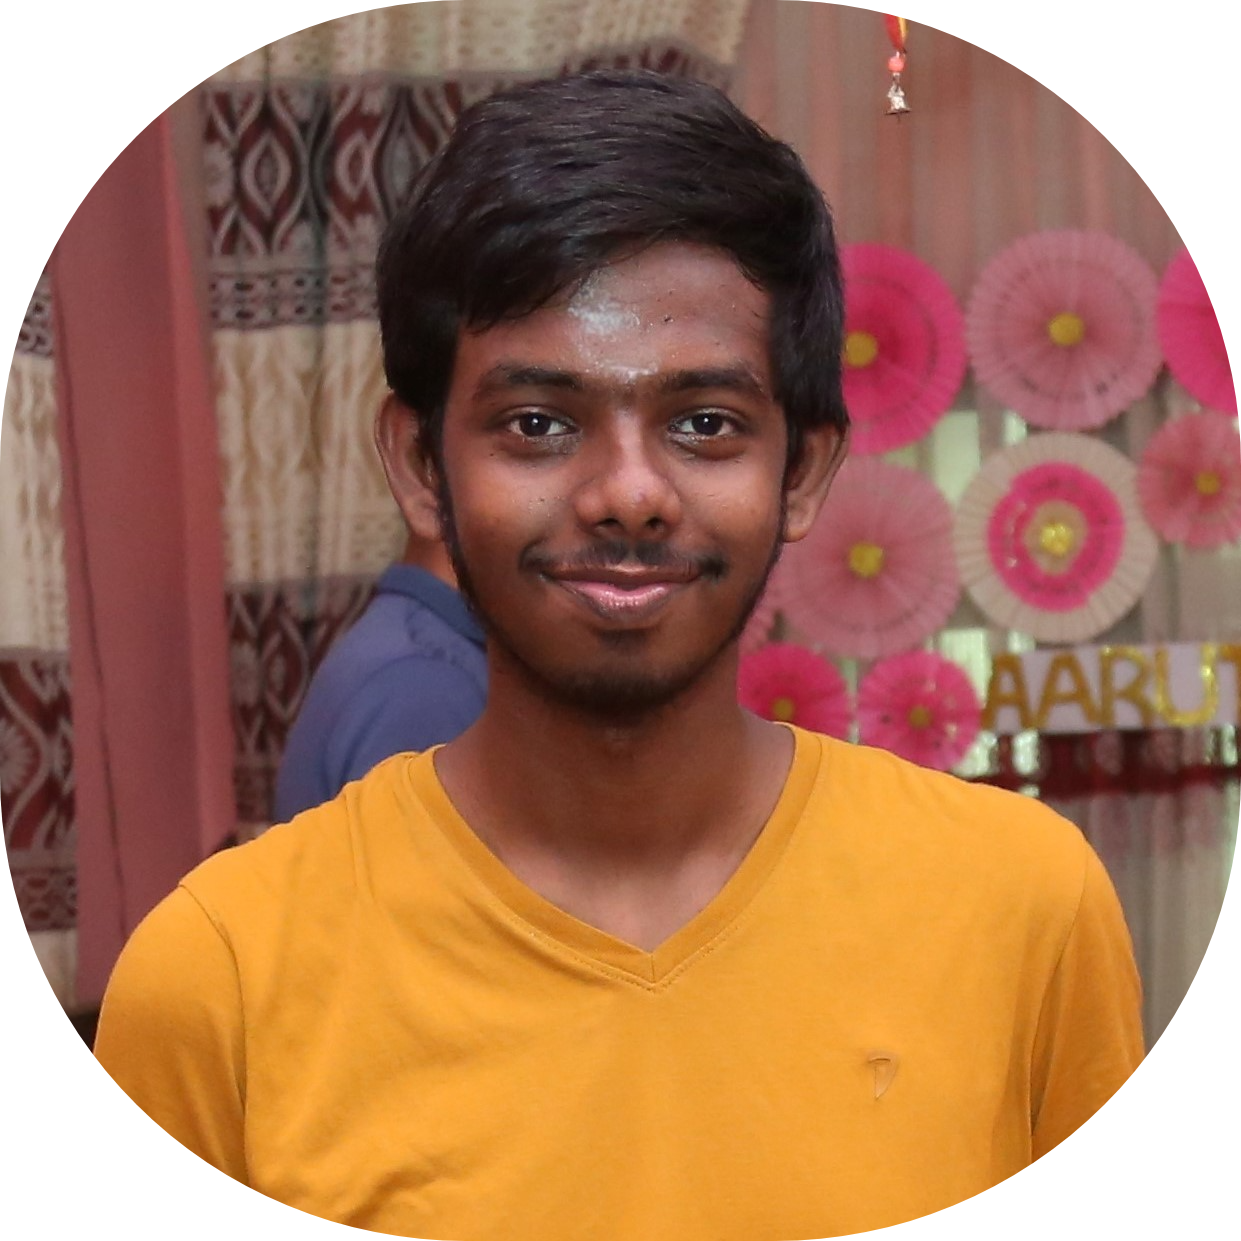
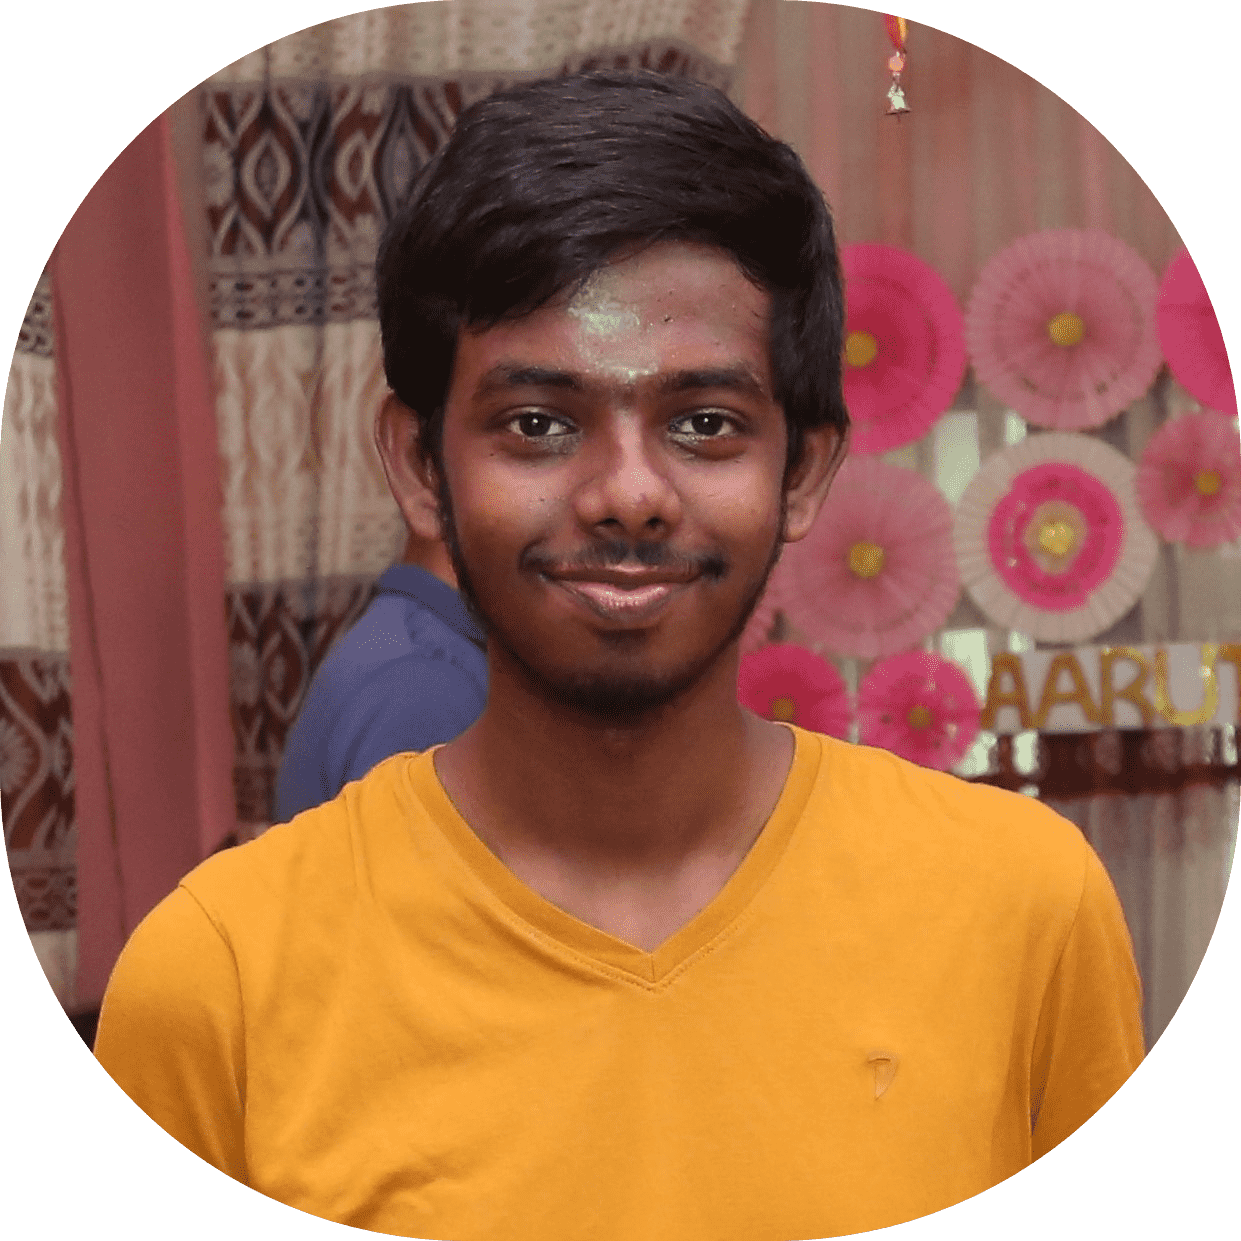
Update from https://github.com/sahithyandev/static-blog/commit/7c459101d320021e17fc6ce4555202d326ef2e92

diff --git a/index.js b/index.js
@@ -1,4 +1,4 @@
-!function(t,e){"use strict";
+!function(e,t){"use strict";
 /*! *****************************************************************************
     Copyright (c) Microsoft Corporation.
 
@@ -12,7 +12,7 @@
     LOSS OF USE, DATA OR PROFITS, WHETHER IN AN ACTION OF CONTRACT, NEGLIGENCE OR
     OTHER TORTIOUS ACTION, ARISING OUT OF OR IN CONNECTION WITH THE USE OR
     PERFORMANCE OF THIS SOFTWARE.
-    ***************************************************************************** */var n=function(){return(n=Object.assign||function(t){for(var e,n=1,r=arguments.length;n<r;n++)for(var a in e=arguments[n])Object.prototype.hasOwnProperty.call(e,a)&&(t[a]=e[a]);return t}).apply(this,arguments)},r=function(e){e.href||console.warn("A link without 'href' is found\nDEBUG_NOTE "+e.children);var r=e.href||"",a=e.disableDefaultStyles||!1,i=n({},e);return r.startsWith("/")||r.startsWith("#")?i["data-is-internal"]="":(i.target="_blank",i.rel="noopener noreferrer"),i.class=(i.class||"").split(" ").concat([a?"":"styled-link"]).join(" "),i.disableDefaultStyles=null,t.h("a",n({},i))},a=[{route:"/projects",text:"Projects"},{route:"/posts",text:"Posts"},{route:"/about",text:"About"}];function i(e){var n=e.children,a=e.route;return t.h(r,{disableDefaultStyles:!0,href:a,class:"nav--link"},n)}function o(e){return t.h("nav",null,e.hideLogo?t.h("div",null):t.h(r,{disableDefaultStyles:!0,href:"/",class:"nav--logo"},"sahithyan"),t.h("input",{type:"checkbox",id:"menu-toggle"}),t.h("label",{for:"menu-toggle",class:"hamburger-icon"}),t.h("ul",null,a.map((function(e,n){return t.h("li",{key:e.route,"data-animation-delay-id":n},t.h(i,{route:e.route},e.text))}))))}function s(){return t.h("footer",null,"© Sahithyan 2021")}function l(e){var n=e.tags;return t.h("div",{class:"tags-container"},n.map((function(e){return t.h("span",{key:e,class:"tag"},e)})))}function h(e){return t.h("div",{class:"post-card show","data-slug":e.meta.slug},t.h("span",{class:"post-released-date"},e.meta.dateCreated),t.h(r,{disableDefaultStyles:!0,href:"/post/"+e.meta.slug},t.h("h3",{class:"title"},e.meta.title)),t.h("p",{class:"description"},e.meta.description),t.h(l,{tags:e.meta.tags}))}function c(){var e=[{providerName:"Twitter",id:"sahithyandev",link:"https://www.twitter.com/sahithyandev",icon:'<svg xmlns="http://www.w3.org/2000/svg" class="icon icon-tabler icon-tabler-brand-twitter" width="24" height="24" viewBox="0 0 24 24" stroke-width="2" stroke="currentColor" fill="none" stroke-linecap="round" stroke-linejoin="round">\n  <path stroke="none" d="M0 0h24v24H0z" fill="none"/>\n  <path d="M22 4.01c-1 .49 -1.98 .689 -3 .99c-1.121 -1.265 -2.783 -1.335 -4.38 -.737s-2.643 2.06 -2.62 3.737v1c-3.245 .083 -6.135 -1.395 -8 -4c0 0 -4.182 7.433 4 11c-1.872 1.247 -3.739 2.088 -6 2c3.308 1.803 6.913 2.423 10.034 1.517c3.58 -1.04 6.522 -3.723 7.651 -7.742a13.84 13.84 0 0 0 .497 -3.753c-.002 -.249 1.51 -2.772 1.818 -4.013z" />\n</svg>\n\n\n'},{id:"sahithyan_",providerName:"Instagram",link:"https://www.instagram.com/sahithyan_",icon:'<svg xmlns="http://www.w3.org/2000/svg" class="icon icon-tabler icon-tabler-brand-instagram" width="24" height="24" viewBox="0 0 24 24" stroke-width="2" stroke="currentColor" fill="none" stroke-linecap="round" stroke-linejoin="round">\n  <path stroke="none" d="M0 0h24v24H0z" fill="none"/>\n  <rect x="4" y="4" width="16" height="16" rx="4" />\n  <circle cx="12" cy="12" r="3" />\n  <line x1="16.5" y1="7.5" x2="16.5" y2="7.501" />\n</svg>\n\n\n'},{id:"sahithyandev",providerName:"GitHub",link:"https://www.github.com/sahithyandev",icon:'<svg xmlns="http://www.w3.org/2000/svg" class="icon icon-tabler icon-tabler-brand-github" width="24" height="24" viewBox="0 0 24 24" stroke-width="2" stroke="currentColor" fill="none" stroke-linecap="round" stroke-linejoin="round">\n  <path stroke="none" d="M0 0h24v24H0z" fill="none"/>\n  <path d="M9 19c-4.3 1.4 -4.3 -2.5 -6 -3m12 5v-3.5c0 -1 .1 -1.4 -.5 -2c2.8 -.3 5.5 -1.4 5.5 -6a4.6 4.6 0 0 0 -1.3 -3.2a4.2 4.2 0 0 0 -.1 -3.2s-1.1 -.3 -3.5 1.3a12.3 12.3 0 0 0 -6.2 0c-2.4 -1.6 -3.5 -1.3 -3.5 -1.3a4.2 4.2 0 0 0 -.1 3.2a4.6 4.6 0 0 0 -1.3 3.2c0 4.6 2.7 5.7 5.5 6c-.6 .6 -.6 1.2 -.5 2v3.5" />\n</svg>\n\n\n'},{providerName:"RSS Feed",link:"https://sahithyandev.github.io/feed.xml",icon:'<svg xmlns="http://www.w3.org/2000/svg" class="icon icon-tabler icon-tabler-rss" width="24" height="24" viewBox="0 0 24 24" stroke-width="2" stroke="currentColor" fill="none" stroke-linecap="round" stroke-linejoin="round">\n  <path stroke="none" d="M0 0h24v24H0z" fill="none"/>\n  <circle cx="5" cy="19" r="1" />\n  <path d="M4 4a16 16 0 0 1 16 16" />\n  <path d="M4 11a9 9 0 0 1 9 9" />\n</svg>\n\n\n'}];return t.h("div",{class:"social-links"},e.map((function(e){return t.h(r,{title:e.id?e.providerName+" ("+e.id+")":e.providerName,key:e.providerName,disableDefaultStyles:!0,href:e.link,dangerouslySetInnerHTML:{__html:e.icon}})})))}
+    ***************************************************************************** */var n=function(){return(n=Object.assign||function(e){for(var t,n=1,r=arguments.length;n<r;n++)for(var a in t=arguments[n])Object.prototype.hasOwnProperty.call(t,a)&&(e[a]=t[a]);return e}).apply(this,arguments)},r=function(t){t.href||console.warn("A link without 'href' is found\nDEBUG_NOTE "+t.children);var r=t.href||"",a=t.disableDefaultStyles||!1,i=n({},t);return r.startsWith("/")||r.startsWith("#")?i["data-is-internal"]="":(i.target="_blank",i.rel="noopener noreferrer"),i.class=(i.class||"").split(" ").concat([a?"":"styled-link"]).join(" "),i.disableDefaultStyles=null,e.h("a",n({},i))},a=[{route:"/projects",text:"Projects"},{route:"/posts",text:"Posts"},{route:"/about",text:"About"}];function i(t){var n=t.children,a=t.route;return e.h(r,{disableDefaultStyles:!0,href:a,class:"nav--link"},n)}function s(t){return e.h("nav",null,t.hideLogo?e.h("div",null):e.h(r,{disableDefaultStyles:!0,href:"/",class:"nav--logo"},"sahithyan"),e.h("input",{type:"checkbox",id:"menu-toggle"}),e.h("label",{for:"menu-toggle",class:"hamburger-icon"}),e.h("ul",null,a.map((function(t,n){return e.h("li",{key:t.route,"data-animation-delay-id":n},e.h(i,{route:t.route},t.text))}))))}function o(){return e.h("footer",null,"© Sahithyan 2021")}function l(t){var n=t.tags;return e.h("div",{class:"tags-container"},n.map((function(t){return e.h("span",{key:t,class:"tag"},t)})))}function h(t){return e.h("div",{class:"post-card show","data-slug":t.meta.slug},e.h("span",{class:"post-released-date"},t.meta.dateCreated),e.h(r,{disableDefaultStyles:!0,href:"/post/"+t.meta.slug},e.h("h3",{class:"title"},t.meta.title)),e.h("p",{class:"description"},t.meta.description),e.h(l,{tags:t.meta.tags}))}function c(){var t=[{providerName:"Twitter",id:"sahithyandev",link:"https://www.twitter.com/sahithyandev",icon:'<svg xmlns="http://www.w3.org/2000/svg" class="icon icon-tabler icon-tabler-brand-twitter" width="24" height="24" viewBox="0 0 24 24" stroke-width="2" stroke="currentColor" fill="none" stroke-linecap="round" stroke-linejoin="round">\n  <path stroke="none" d="M0 0h24v24H0z" fill="none"/>\n  <path d="M22 4.01c-1 .49 -1.98 .689 -3 .99c-1.121 -1.265 -2.783 -1.335 -4.38 -.737s-2.643 2.06 -2.62 3.737v1c-3.245 .083 -6.135 -1.395 -8 -4c0 0 -4.182 7.433 4 11c-1.872 1.247 -3.739 2.088 -6 2c3.308 1.803 6.913 2.423 10.034 1.517c3.58 -1.04 6.522 -3.723 7.651 -7.742a13.84 13.84 0 0 0 .497 -3.753c-.002 -.249 1.51 -2.772 1.818 -4.013z" />\n</svg>\n\n\n'},{id:"sahithyan_",providerName:"Instagram",link:"https://www.instagram.com/sahithyan_",icon:'<svg xmlns="http://www.w3.org/2000/svg" class="icon icon-tabler icon-tabler-brand-instagram" width="24" height="24" viewBox="0 0 24 24" stroke-width="2" stroke="currentColor" fill="none" stroke-linecap="round" stroke-linejoin="round">\n  <path stroke="none" d="M0 0h24v24H0z" fill="none"/>\n  <rect x="4" y="4" width="16" height="16" rx="4" />\n  <circle cx="12" cy="12" r="3" />\n  <line x1="16.5" y1="7.5" x2="16.5" y2="7.501" />\n</svg>\n\n\n'},{id:"sahithyandev",providerName:"GitHub",link:"https://www.github.com/sahithyandev",icon:'<svg xmlns="http://www.w3.org/2000/svg" class="icon icon-tabler icon-tabler-brand-github" width="24" height="24" viewBox="0 0 24 24" stroke-width="2" stroke="currentColor" fill="none" stroke-linecap="round" stroke-linejoin="round">\n  <path stroke="none" d="M0 0h24v24H0z" fill="none"/>\n  <path d="M9 19c-4.3 1.4 -4.3 -2.5 -6 -3m12 5v-3.5c0 -1 .1 -1.4 -.5 -2c2.8 -.3 5.5 -1.4 5.5 -6a4.6 4.6 0 0 0 -1.3 -3.2a4.2 4.2 0 0 0 -.1 -3.2s-1.1 -.3 -3.5 1.3a12.3 12.3 0 0 0 -6.2 0c-2.4 -1.6 -3.5 -1.3 -3.5 -1.3a4.2 4.2 0 0 0 -.1 3.2a4.6 4.6 0 0 0 -1.3 3.2c0 4.6 2.7 5.7 5.5 6c-.6 .6 -.6 1.2 -.5 2v3.5" />\n</svg>\n\n\n'},{providerName:"RSS Feed",link:"https://sahithyandev.github.io/feed.xml",icon:'<svg xmlns="http://www.w3.org/2000/svg" class="icon icon-tabler icon-tabler-rss" width="24" height="24" viewBox="0 0 24 24" stroke-width="2" stroke="currentColor" fill="none" stroke-linecap="round" stroke-linejoin="round">\n  <path stroke="none" d="M0 0h24v24H0z" fill="none"/>\n  <circle cx="5" cy="19" r="1" />\n  <path d="M4 4a16 16 0 0 1 16 16" />\n  <path d="M4 11a9 9 0 0 1 9 9" />\n</svg>\n\n\n'}];return e.h("div",{class:"social-links"},t.map((function(t){return e.h(r,{title:t.id?t.providerName+" ("+t.id+")":t.providerName,key:t.providerName,disableDefaultStyles:!0,href:t.link,dangerouslySetInnerHTML:{__html:t.icon}})})))}
 /*! *****************************************************************************
     Copyright (c) Microsoft Corporation.
 
@@ -26,4 +26,4 @@
     LOSS OF USE, DATA OR PROFITS, WHETHER IN AN ACTION OF CONTRACT, NEGLIGENCE OR
     OTHER TORTIOUS ACTION, ARISING OUT OF OR IN CONNECTION WITH THE USE OR
     PERFORMANCE OF THIS SOFTWARE.
-    ***************************************************************************** */var u;function d(e){return t.h(t.Fragment,null,t.h(o,{hideLogo:!0}),t.h("main",null,t.h("div",{class:"stretch-out me-banner"},t.h("h1",null,"Sahithyan"),t.h("h3",null,"student, web developer & tech enthusiast"),t.h("img",{src:"/me.png",alt:"me"}),t.h(c,null)),t.h("section",null,t.h("h2",{class:"sub-heading"},"Recent Posts"),t.h("div",{class:"posts-container"},(pageData.latestPosts||[]).map((function(e){return t.h(h,{meta:e,key:e.slug})}))))),t.h(s,null))}u={red:91,yellow:93,cyan:96},Object.fromEntries(Object.entries(u).map((function(t){return[t[0],"["+t[1]+"m"]})));t.render(t.h((function(){var n=e.useState([]),r=n[0];return n[1],t.h(d,{latestPosts:r.slice(0,4).map((function(t){return t.meta}))})}),null),document.getElementById("root"))}(preact,preact);
[1 lines of base64/hex data omitted]

diff --git a/index.html b/index.html
@@ -141,9 +141,14 @@
         opacity: 1;
       }
 
+      @keyframes fade-in {
+        from {
+          opacity: 0;
+        }
+      }
       .me-banner {
         display: grid;
-        grid-template-columns: 80% 20%;
+        grid-template-columns: auto minmax(100px, 20%);
         grid-template-rows: auto auto auto;
         grid-template-areas: "name img" "description img" "social-links img";
         column-gap: 10px;
@@ -169,23 +174,32 @@
         grid-area: social-links;
         margin: 0;
       }
-      .me-banner img {
+      .me-banner picture {
         grid-area: img;
+        aspect-ratio: 1/1;
+        background-repeat: no-repeat;
+        background-size: 98%;
+        background-position: center;
+      }
+      .me-banner picture img {
+        min-width: 100px;
         width: 100%;
         height: auto;
+        animation-name: fade-in;
+        animation-duration: 1s;
       }
       @media (max-width: 640px) {
         .me-banner {
           grid-template-columns: 100%;
-          grid-template-rows: auto auto auto auto;
+          grid-template-rows: 100px auto auto auto;
           grid-template-areas: "img" "name" "description" "social-links";
         }
         .me-banner h1 {
+          margin-top: 20px;
           font-size: 2.5rem;
         }
-        .me-banner img {
-          max-width: 100px;
-          margin-bottom: 20px;
+        .me-banner picture {
+          height: 100%;
         }
       }
 
@@ -229,7 +243,13 @@
         <div class="stretch-out me-banner">
           <h1>Sahithyan</h1>
           <h3>student, web developer &amp; tech enthusiast</h3>
-          <img src="/me.png" alt="me" />
+          <picture
+            style="
[1 lines of base64/hex data omitted]
+            "
+            ><source srcset="/me.webp" type="image/webp" />
+            <img src="/me.png" alt="" width="1241" height="1241"
+          /></picture>
           <div class="social-links">
             <a
               title="Twitter (sahithyandev)"

diff --git a/service-worker.js b/service-worker.js
@@ -1,1 +1,1 @@
-!function(){"use strict";var e="blog-cache-5128844",t=["/global.css","/lib-preact.js","/favicon.ico"];self.addEventListener("install",(function(n){n.waitUntil(caches.open(e).then((function(e){e.addAll(t)})))})),self.addEventListener("activate",(function(t){console.log("sw activate"),t.waitUntil(caches.keys().then((function(t){return Promise.all(t.map((function(t){if(console.log("sw cache",t),t!==e)return caches.delete(t)})))})))})),self.addEventListener("fetch",(function(t){"chrome-extension"!==t.request.url.split("://")[0]&&"GET"==t.request.method&&t.respondWith(caches.match(t.request).then((function(n){return n||fetch(t.request).then((function(n){if(!n||200!==n.status)return n;var c=n.clone();return caches.open(e+"_runtime").then((function(e){e.put(t.request,c)})),n}))})))})),console.log("service worker working")}();
+!function(){"use strict";var e="blog-cache-6912806",t=["/global.css","/lib-preact.js","/favicon.ico"];self.addEventListener("install",(function(n){n.waitUntil(caches.open(e).then((function(e){e.addAll(t)})))})),self.addEventListener("activate",(function(t){console.log("sw activate"),t.waitUntil(caches.keys().then((function(t){return Promise.all(t.map((function(t){if(console.log("sw cache",t),t!==e)return caches.delete(t)})))})))})),self.addEventListener("fetch",(function(t){"chrome-extension"!==t.request.url.split("://")[0]&&"GET"==t.request.method&&t.respondWith(caches.match(t.request).then((function(n){return n||fetch(t.request).then((function(n){if(!n||200!==n.status)return n;var c=n.clone();return caches.open(e+"_runtime").then((function(e){e.put(t.request,c)})),n}))})))})),console.log("service worker working")}();
